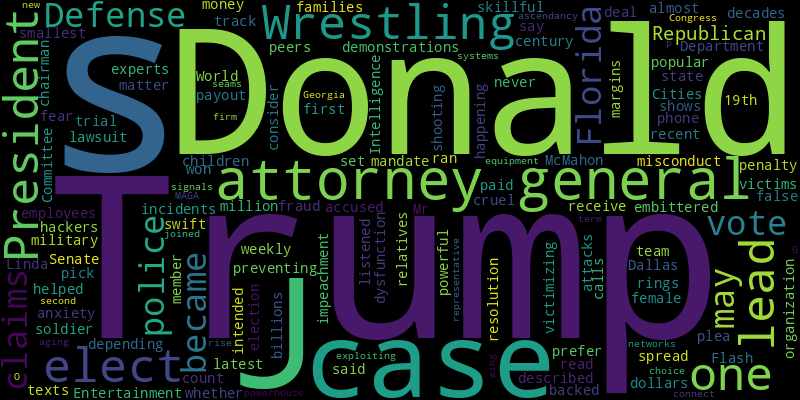
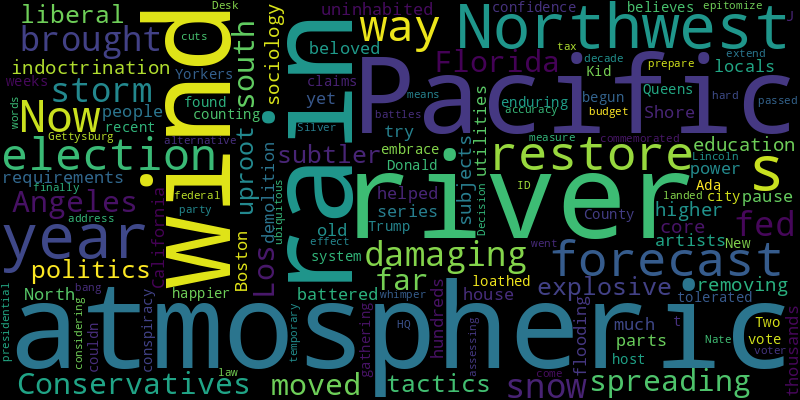
chore(bot): 👻 auto commit

diff --git a/README.md b/README.md
@@ -2,32 +2,35 @@
 Auto RSS New York Times and Generate Word Cloud
 
 ## New York Times Global News
-* The I.C.C. rejected Israel’s challenges to its jurisdiction and also issued a warrant for a top Hamas official. Its chief prosecutor is seeking the arrests for war crimes in Israel and Gaza.
-* One of Prime Minister Benjamin Netanyahu’s advisers is accused of leaking a top-secret document to a German tabloid in an attempt to influence public sentiment on hostage negotiations.
-* Former President Jair Bolsonaro could face criminal charges over accusations that he was involved in plans to stage a coup after losing the 2022 elections.
-* The intermediate-range missile did not carry nuclear weapons, but it is part of a strategic arsenal that is capable of delivering them.
-* The prime minister had been fired for criticizing the country’s junta.
-* The attack was one of the deadliest in months of violence between Sunnis and Shiites in the Kurram region.
-* So far, direct attacks between the two adversaries have been precise and calculated. Whether that lasts is another question.
-* Why would anyone stay in a job where abuse is rampant and women are coerced into hysterectomies? Because the cost of escaping India’s cane fields is often even higher.
-* The government said new rules could give legal status — and work permits — to about 300,000 people a year over the next three years to address gaps in the labor market.
-* The envoy, Amos Hochstein, was in Israel and planned to meet with Prime Minister Benjamin Netanyahu, seeking a truce in the country’s war with the militant group Hezbollah.
+* After being abducted by an offshoot of Boko Haram in Nigeria six years ago, a Christian nurse describes her daring escape and how faith kept her alive.
+* The Lebanese militant group captured an advanced Israeli anti-tank missile in the 2006 war, and its ally, Iran, reverse-engineered it, Israeli officials say.
+* While support for Vladimir V. Putin’s threats resounded in pro-war venues, some Russians reacted with worry, gallows humor and apathy to the suggestions of striking the West and using nuclear weapons.
+* Laila Soueif, the British-born mother of the Egyptian political prisoner Alaa Abd El Fattah, is demanding the U.K. do more to secure his release.
+* The country’s new leaders are trying to undo changes, like abortion restrictions and politicized courts, made by their hard-right predecessors. It “takes longer than you expect,” one minister said.
+* With a tactic known as “resort politics,” Prime Minister Narendra Modi’s party has been accused of using brute force to take over Indian state governments.
+* Accusations that former far-right President Jair Bolsonaro plotted a coup arose after a former top aide of his was implicated in a plan to kill the current president.
+* With thousands of advanced centrifuges on standby, Tehran says it is now spinning more, which could increase its stockpile of near-bomb-grade atomic fuel.
+* The jurisdiction of the court in The Hague can extend beyond member states.
+* Key details still needed to be worked out between Israel and Hezbollah, and disagreements could scuttle or delay any deal, the officials said. But some cited reasons for cautious optimism.
 
 ![Global](./global.png)
 ## New York Times United States News
-* Flash demonstrations intended to spread fear and anxiety are happening almost weekly, say experts who track the incidents.
-* Linda McMahon, who ran World Wrestling Entertainment for decades, was accused in the lawsuit of not preventing one of the organization’s employees from victimizing children who helped set up wrestling rings.
-* President-elect Donald J. Trump’s pick to lead the Defense Department was described by peers as a skillful soldier who became embittered by military dysfunction.
-* Cities have paid out billions of dollars in police misconduct cases, but depending on the case, families may not receive any money at all. A recent $100 million penalty for a police shooting case in Dallas may never lead to a payout.
-* The latest vote count shows that Donald J. Trump won the popular vote by one of the smallest margins since the 19th century. But Mr. Trump claims a “powerful mandate.”
-* No matter whether they prefer a trial or swift resolution, relatives of victims of the attacks consider the on-again, off-again plea deal to be cruel.
-* Florida’s first female state attorney general, she became a member of Donald Trump’s impeachment defense team and backed his false claims of election fraud in 2020.
-* The chairman of the Senate Intelligence Committee said hackers listened to phone calls and read texts by exploiting aging equipment and seams in the networks that connect systems.
-* President-elect Donald J. Trump’s new choice to be attorney general joined a powerhouse Republican firm after her second term as Florida’s attorney general.
-* The rise of the Republican representative from Georgia signals the ascendancy of the MAGA wing of the G.O.P. in Congress.
+* An atmospheric river that has brought damaging wind, rain and snow to the Pacific Northwest fed a storm spreading as far south as Los Angeles.
+* Conservatives in Florida have moved from explosive politics to subtler tactics to uproot liberal “indoctrination” in higher education by removing subjects like sociology from core requirements.
+* The 99-year-old house on Boston’s North Shore is battered and uninhabited. And yet, it is beloved by artists and locals — so much that they helped pause its demolition.
+* A series of atmospheric rivers is flooding the Pacific Northwest and parts of California, with more wind and rain forecast as utilities try to restore power to hundreds of thousands of people.
+* After enduring a host of election conspiracy claims in recent years, Ada County believes it has found a way to restore confidence in the vote-counting system.
+* The city tolerated Donald J. Trump, and then it loathed him. Now, some New Yorkers have begun to embrace him. The Kid from Queens couldn’t be happier.
+* Two weeks after the election, a gathering in Gettysburg commemorated Lincoln’s address, 272 words that have come to epitomize what it means to be presidential.
+* Some in the party are considering alternative ways of assessing the federal budget as they prepare to extend temporary tax cuts passed in 2017.
+* The forecasts, like those from Decision Desk HQ, Nate Silver and 538, are now ubiquitous, but their accuracy is hard to measure.
+* After a decade of battles over voter ID, the law that finally went into effect landed with a whimper, not a bang.
 
 ![US](./usnews.png)
 ## New York Times Asia News
+* With a tactic known as “resort politics,” Prime Minister Narendra Modi’s party has been accused of using brute force to take over Indian state governments.
+* From electric cars to solar panels, Mr. Musk has built businesses in high-tech manufacturing sectors now targeted by Beijing for Chinese dominance.
+* Pyongyang has long coveted an advanced air-defense system to guard against missiles and war planes from the United States and South Korea.
 * The chairman of the Senate Intelligence Committee said hackers listened to phone calls and read texts by exploiting aging equipment and seams in the networks that connect systems.
 * Plus, bathing in crude oil.
 * The attack was one of the deadliest in months of violence between Sunnis and Shiites in the Kurram region.
@@ -35,8 +38,5 @@ Auto RSS New York Times and Generate Word Cloud
 * Travelers from the United States, Britain, Australia and Denmark have died in the Southeast Asian nation in recent days. Officials warned of poisoning caused by alcoholic drinks containing methanol.
 * Why would anyone stay in a job where abuse is rampant and women are coerced into hysterectomies? Because the cost of escaping India’s cane fields is often even higher.
 * Vladimir Putin also presented a lion to Pyongyang Zoo, one of the more than 70 animals he sent as an emblem of the deepening friendship between the two nations.
-* Plus, Daniel Craig’s performance in “Queer.”
-* President-elect Donald J. Trump is assembling a team of aides bent on confrontation with China. But he also has advisers who do business there, including Elon Musk.
-* The walkout in France is the latest development in a simmering trade war between Europe and China.
 
 ![Asian](./asian.png)

diff --git a/archive/2024-11-22.md b/archive/2024-11-22.md
@@ -1,0 +1,42 @@
+# NewsArchive
+Auto RSS New York Times and Generate Word Cloud
+
+## New York Times Global News
+* The I.C.C. rejected Israel’s challenges to its jurisdiction and also issued a warrant for a top Hamas official. Its chief prosecutor is seeking the arrests for war crimes in Israel and Gaza.
+* One of Prime Minister Benjamin Netanyahu’s advisers is accused of leaking a top-secret document to a German tabloid in an attempt to influence public sentiment on hostage negotiations.
+* Former President Jair Bolsonaro could face criminal charges over accusations that he was involved in plans to stage a coup after losing the 2022 elections.
+* The intermediate-range missile did not carry nuclear weapons, but it is part of a strategic arsenal that is capable of delivering them.
+* The prime minister had been fired for criticizing the country’s junta.
+* The attack was one of the deadliest in months of violence between Sunnis and Shiites in the Kurram region.
+* So far, direct attacks between the two adversaries have been precise and calculated. Whether that lasts is another question.
+* Why would anyone stay in a job where abuse is rampant and women are coerced into hysterectomies? Because the cost of escaping India’s cane fields is often even higher.
+* The government said new rules could give legal status — and work permits — to about 300,000 people a year over the next three years to address gaps in the labor market.
+* The envoy, Amos Hochstein, was in Israel and planned to meet with Prime Minister Benjamin Netanyahu, seeking a truce in the country’s war with the militant group Hezbollah.
+
+![Global](./global.png)
+## New York Times United States News
+* Flash demonstrations intended to spread fear and anxiety are happening almost weekly, say experts who track the incidents.
+* Linda McMahon, who ran World Wrestling Entertainment for decades, was accused in the lawsuit of not preventing one of the organization’s employees from victimizing children who helped set up wrestling rings.
+* President-elect Donald J. Trump’s pick to lead the Defense Department was described by peers as a skillful soldier who became embittered by military dysfunction.
+* Cities have paid out billions of dollars in police misconduct cases, but depending on the case, families may not receive any money at all. A recent $100 million penalty for a police shooting case in Dallas may never lead to a payout.
+* The latest vote count shows that Donald J. Trump won the popular vote by one of the smallest margins since the 19th century. But Mr. Trump claims a “powerful mandate.”
+* No matter whether they prefer a trial or swift resolution, relatives of victims of the attacks consider the on-again, off-again plea deal to be cruel.
+* Florida’s first female state attorney general, she became a member of Donald Trump’s impeachment defense team and backed his false claims of election fraud in 2020.
+* The chairman of the Senate Intelligence Committee said hackers listened to phone calls and read texts by exploiting aging equipment and seams in the networks that connect systems.
+* President-elect Donald J. Trump’s new choice to be attorney general joined a powerhouse Republican firm after her second term as Florida’s attorney general.
+* The rise of the Republican representative from Georgia signals the ascendancy of the MAGA wing of the G.O.P. in Congress.
+
+![US](./usnews.png)
+## New York Times Asia News
+* The chairman of the Senate Intelligence Committee said hackers listened to phone calls and read texts by exploiting aging equipment and seams in the networks that connect systems.
+* Plus, bathing in crude oil.
+* The attack was one of the deadliest in months of violence between Sunnis and Shiites in the Kurram region.
+* The U.S. indictment names Gautam Adani, one of India’s richest businessmen, but it points to an even bigger target: how business is done there.
+* Travelers from the United States, Britain, Australia and Denmark have died in the Southeast Asian nation in recent days. Officials warned of poisoning caused by alcoholic drinks containing methanol.
+* Why would anyone stay in a job where abuse is rampant and women are coerced into hysterectomies? Because the cost of escaping India’s cane fields is often even higher.
+* Vladimir Putin also presented a lion to Pyongyang Zoo, one of the more than 70 animals he sent as an emblem of the deepening friendship between the two nations.
+* Plus, Daniel Craig’s performance in “Queer.”
+* President-elect Donald J. Trump is assembling a team of aides bent on confrontation with China. But he also has advisers who do business there, including Elon Musk.
+* The walkout in France is the latest development in a simmering trade war between Europe and China.
+
+![Asian](./asian.png)
